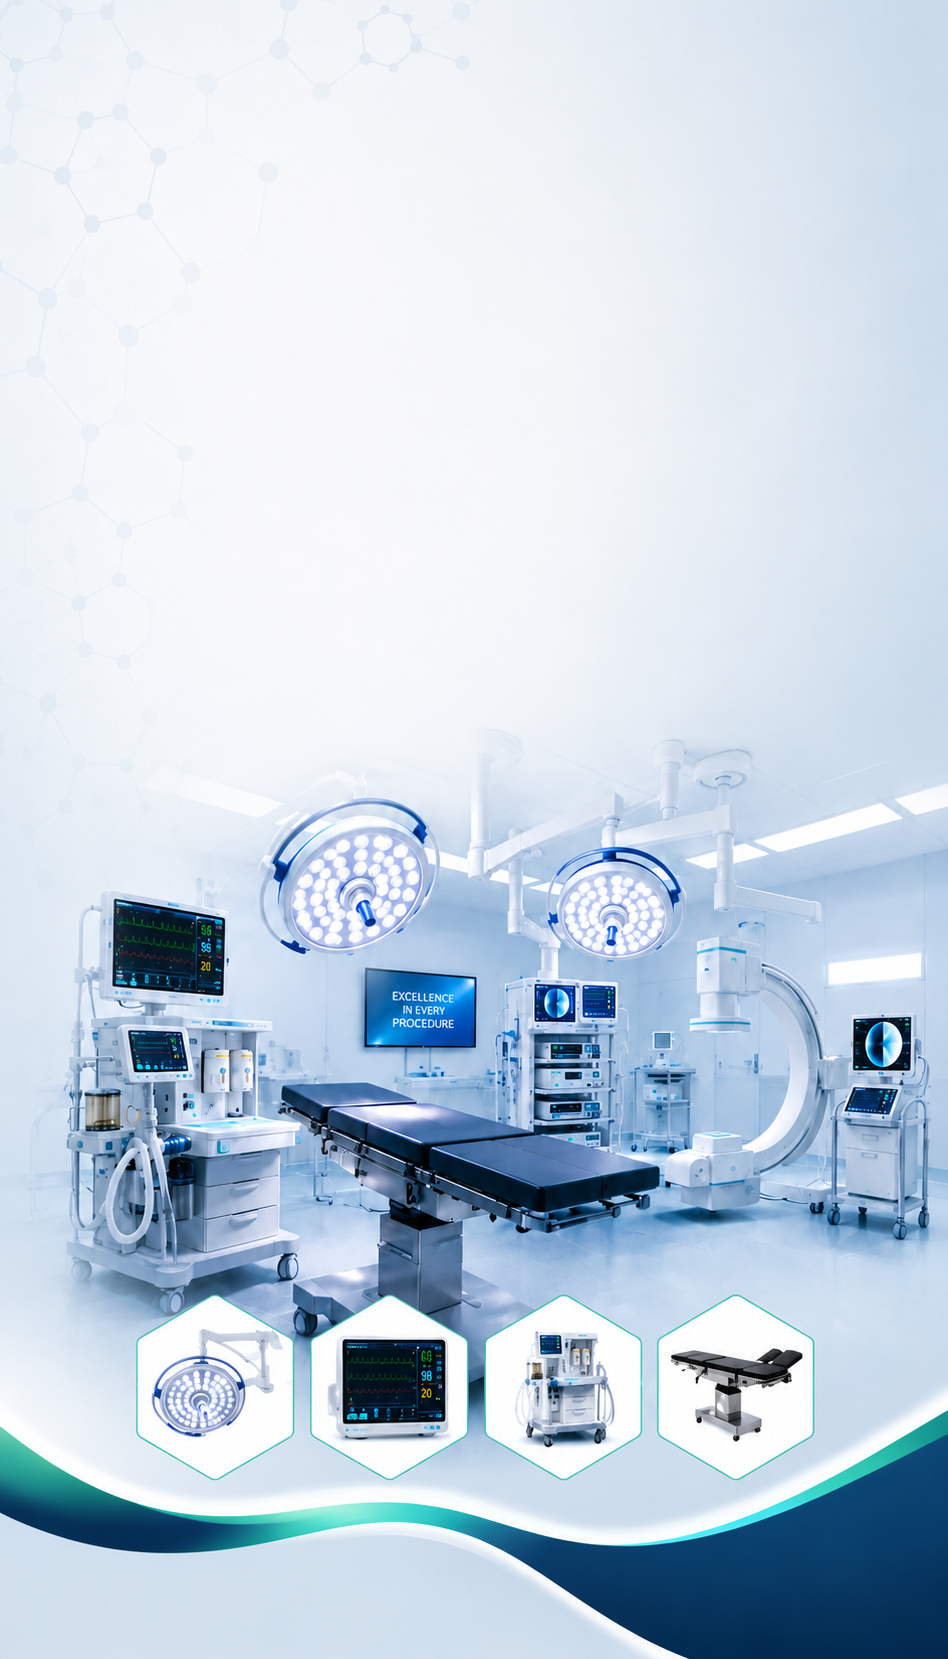
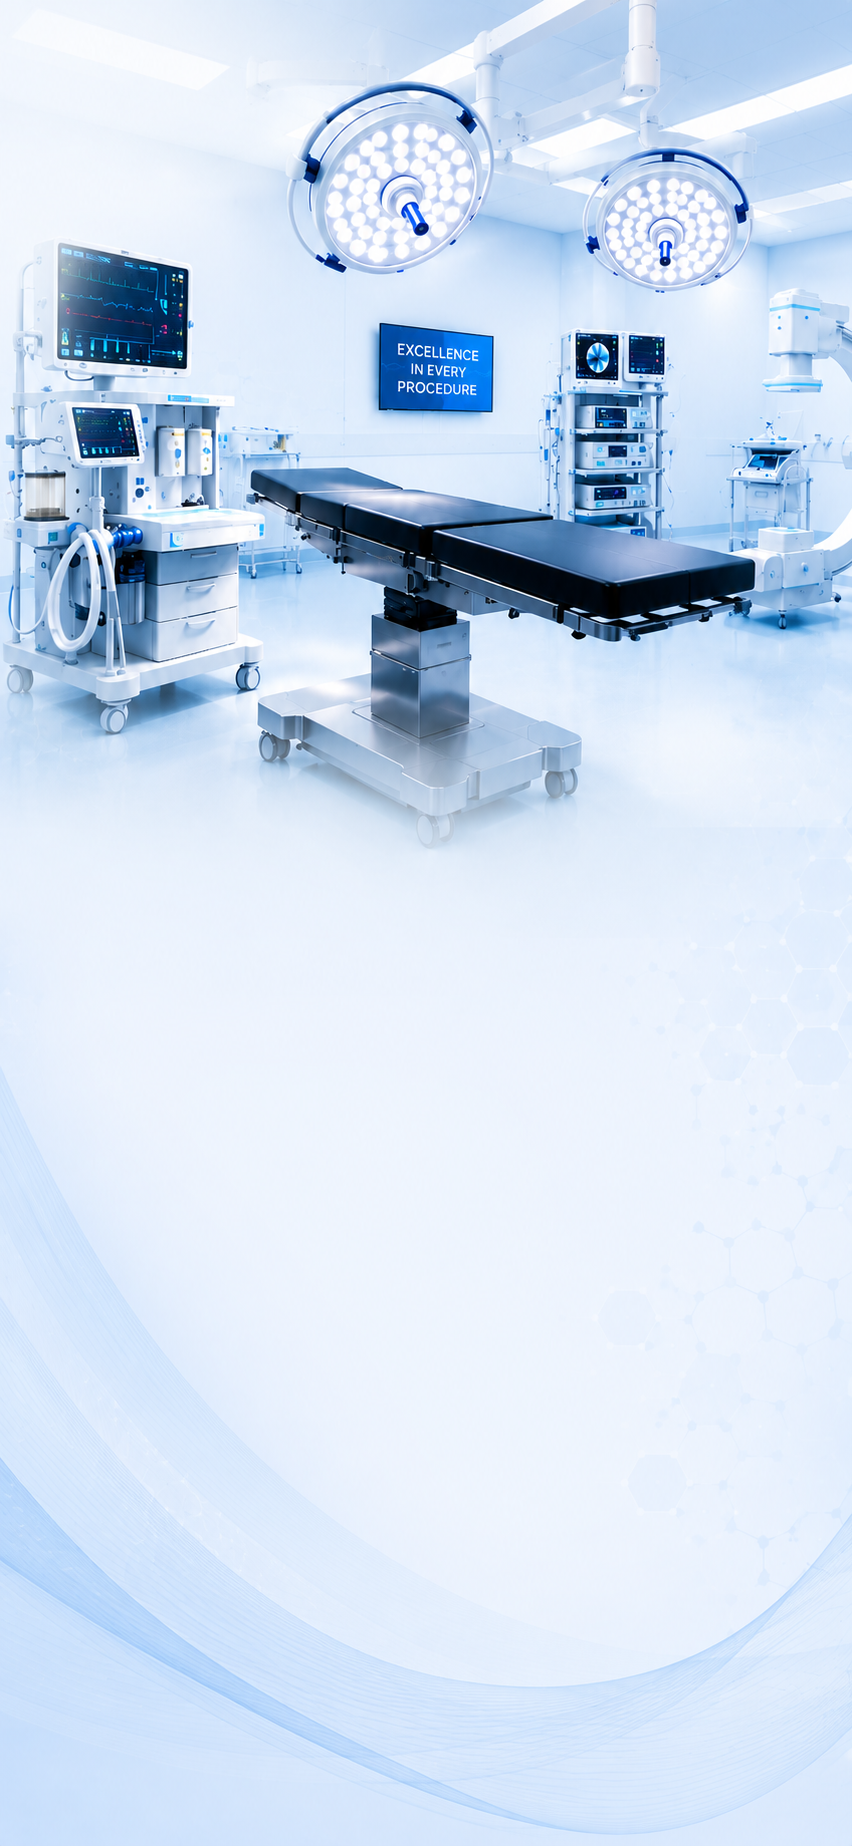
BG for Mobile view

diff --git a/src/components/HomeView.tsx b/src/components/HomeView.tsx
@@ -358,7 +358,7 @@ export default function HomeView({ onOpenProductModal, showPreloader = false }: 
   return (
     <div className="bg-white min-h-screen font-sans">
       {/* 1. HERO SECTION */}
-      <section className="relative min-h-[480px] lg:min-h-[580px] xl:min-h-[700px] flex items-center bg-slate-50 overflow-hidden pt-6 pb-5 lg:pt-10 lg:pb-8 xl:pt-[80px] xl:pb-[60px]">
+      <section className="relative min-h-[480px] lg:min-h-[580px] xl:min-h-[700px] flex items-center bg-slate-50 overflow-hidden pt-[280px] pb-8 sm:pt-[340px] md:pt-10 md:pb-8 lg:pt-10 lg:pb-8 xl:pt-[80px] xl:pb-[60px]">
         {/* Background with zoom and fade in effect */}
         <motion.div
           initial={{ opacity: 0, scale: 1 }}
@@ -367,18 +367,20 @@ export default function HomeView({ onOpenProductModal, showPreloader = false }: 
           className="absolute inset-0"
         >
           <picture>
-            {/* Desktop & Tablet: screens larger than mobile (min-width: 640px) */}
-            <source media="(min-width: 640px)" srcSet={slides[0]?.image || "/hero-bg.png"} />
-            {/* Standard Mobile: screens between 321px and 639px */}
-            <source media="(min-width: 321px)" srcSet="/Home-bg-mobile.webp" />
-            {/* Very Small Mobile: screens 320px and below */}
+            {/* Desktop & Tablet: screens larger than mobile (min-width: 768px) */}
+            <source media="(min-width: 768px)" srcSet={slides[0]?.image || "/hero-bg.png"} />
+            {/* Standard Mobile: screens 376px to 767px */}
+            <source media="(min-width: 376px)" srcSet="/hero-bg-mobile.webp" />
+            {/* Very Small Mobile: screens 320px to 375px */}
             <img
-              src="/Home-bg-mobile-320px.webp"
+              src="/hero-bg-mobile-320px.webp"
               alt="Vel Bio Med Hero Background"
-              className="w-full h-full object-cover object-center pointer-events-none"
+              className="mobile-hero-bg-img w-full h-full object-cover pointer-events-none"
               loading="eager"
             />
           </picture>
+          {/* Light readability white gradient overlay */}
+          <div className="absolute inset-0 bg-gradient-to-b from-transparent via-white/15 to-white/20 pointer-events-none z-[5]" />
         </motion.div>
 
         {/* Background Glows */}
@@ -394,7 +396,7 @@ export default function HomeView({ onOpenProductModal, showPreloader = false }: 
                 initial="hidden"
                 animate={showPreloader ? "hidden" : "visible"}
                 variants={heroContainerVariants}
-                className="flex flex-col items-center lg:items-start text-center lg:text-left text-slate-900"
+                className="flex flex-col items-center lg:items-start text-center lg:text-left text-slate-900 gap-y-5 lg:gap-y-0"
               >
                 {/* Badge */}
                 <motion.div variants={heroItemVariants} className="w-full text-center lg:text-left">
@@ -406,7 +408,7 @@ export default function HomeView({ onOpenProductModal, showPreloader = false }: 
                 {/* Heading */}
                 <motion.h1
                   variants={heroItemVariants}
-                  className="text-2xl sm:text-3xl md:text-[38px] lg:text-[36px] xl:text-[44px] font-black tracking-tight leading-[1.15] text-slate-900 max-w-[680px] w-full text-center lg:text-left mt-4 sm:mt-5 xl:mt-6"
+                  className="text-2xl sm:text-3xl md:text-[38px] lg:text-[36px] xl:text-[44px] font-black tracking-tight leading-[1.15] text-slate-900 max-w-[680px] w-full text-center lg:text-left mt-0 lg:mt-5 xl:mt-6"
                 >
                   <span className="whitespace-nowrap">
                     Transforming{" "}
@@ -425,7 +427,7 @@ export default function HomeView({ onOpenProductModal, showPreloader = false }: 
                 {/* Description */}
                 <motion.p
                   variants={heroItemVariants}
-                  className="text-[11px] sm:text-xs md:text-sm text-slate-650 leading-relaxed font-semibold max-w-[520px] w-full text-center lg:text-left mt-4 sm:mt-6 xl:mt-7"
+                  className="text-[11px] sm:text-xs md:text-sm text-slate-650 leading-relaxed font-semibold max-w-[520px] w-full text-center lg:text-left mt-0 lg:mt-6 xl:mt-7"
                 >
                   Vel Bio Med delivers high-caliber diagnostics and life-support machinery from world-renowned healthcare manufacturers to premium hospitals.
                 </motion.p>
@@ -433,7 +435,7 @@ export default function HomeView({ onOpenProductModal, showPreloader = false }: 
                 {/* CTA Buttons */}
                 <motion.div
                   variants={heroItemVariants}
-                  className="flex flex-wrap justify-center lg:justify-start gap-[20px] w-full mt-5 sm:mt-8 xl:mt-9"
+                  className="flex flex-wrap justify-center lg:justify-start gap-[20px] w-full mt-0 lg:mt-8 xl:mt-9"
                 >
                   <button
                     onClick={() => setCurrentTab("products")}
@@ -452,7 +454,7 @@ export default function HomeView({ onOpenProductModal, showPreloader = false }: 
                 {/* Statistics Cards */}
                 <motion.div
                   variants={heroItemVariants}
-                  className="grid grid-cols-4 gap-2.5 w-full lg:mx-0 mx-auto mt-6 sm:mt-8 xl:mt-10"
+                  className="grid grid-cols-4 gap-2.5 w-full lg:mx-0 mx-auto mt-0 lg:mt-8 xl:mt-10"
                 >
                   {[
                     { target: 16, suffix: "+", label: "Years Exp.", icon: Award, color: "text-blue-600", iconBg: "bg-blue-50", border: "border-blue-100/70", glow: "from-blue-500/5" },
@@ -467,7 +469,7 @@ export default function HomeView({ onOpenProductModal, showPreloader = false }: 
                         className={`flex flex-col items-center justify-center text-center gap-1.5 py-3.5 px-2 rounded-xl border ${m.border} bg-gradient-to-b ${m.glow} to-white/70 backdrop-blur-sm shadow-[0_1px_8px_rgba(0,0,0,0.05)] hover:shadow-[0_3px_14px_rgba(0,0,0,0.09)] hover:scale-[1.02] transition-all duration-200`}
                       >
                         <div className={`w-9 h-9 flex items-center justify-center rounded-xl ${m.iconBg} border border-white/90 shadow-sm`}>
-                          <IconComponent className={`w-4 h-4 ${m.color}`} strokeWidth={2} />
+                           <IconComponent className={`w-4 h-4 ${m.color}`} strokeWidth={2} />
                         </div>
                         <p className="text-lg font-black text-slate-800 tracking-tight leading-none">
                           <AnimatedCounter target={m.target} suffix={m.suffix} duration={2000} startSignal={!showPreloader} />

diff --git a/src/index.css b/src/index.css
@@ -417,3 +417,60 @@
   transform: translateX(-50%);
   transition: width 0.35s cubic-bezier(0.4, 0, 0.2, 1);
 }
+
+/* Mobile Hero Background Responsive Positioning (< 768px) */
+@media (max-width: 767.98px) {
+  .mobile-hero-bg-img {
+    object-fit: cover !important;
+    background-size: cover !important;
+    background-repeat: no-repeat !important;
+    /* Default for mobile is center top */
+    object-position: center top !important; 
+    background-position: center top !important;
+  }
+  
+  /* 320px devices (Small Mobile: 320px - 359px) */
+  @media (min-width: 320px) and (max-width: 359.98px) {
+    .mobile-hero-bg-img {
+      /* Move image slightly upward, keep surgical lights visible and operating table centered. Avoid excessive empty space. */
+      object-position: center 2% !important;
+      background-position: center 2% !important;
+    }
+  }
+
+  /* 360px devices */
+  @media (min-width: 360px) and (max-width: 374.98px) {
+    .mobile-hero-bg-img {
+      /* Center operating table, keep equipment balanced, maintain proper spacing above content */
+      object-position: center 10% !important;
+      background-position: center 10% !important;
+    }
+  }
+
+  /* 375px devices */
+  @media (min-width: 375px) and (max-width: 389.98px) {
+    .mobile-hero-bg-img {
+      /* Keep hero image naturally centered, ensure medical equipment remains visible */
+      object-position: center 18% !important;
+      background-position: center 18% !important;
+    }
+  }
+
+  /* 390px–430px devices */
+  @media (min-width: 390px) and (max-width: 479.98px) {
+    .mobile-hero-bg-img {
+      /* Slightly increase visible background area, prevent unnecessary cropping */
+      object-position: center 25% !important;
+      background-position: center 25% !important;
+    }
+  }
+
+  /* 480px+ devices */
+  @media (min-width: 480px) {
+    .mobile-hero-bg-img {
+      /* Display almost complete background image, keep composition balanced */
+      object-position: center 30% !important;
+      background-position: center 30% !important;
+    }
+  }
+}

diff --git a/scratch/compress_hero_mobile.js b/scratch/compress_hero_mobile.js
@@ -1,0 +1,36 @@
+import sharp from 'sharp';
+import fs from 'fs';
+import path from 'path';
+
+const publicDir = 'public';
+
+async function compressImage() {
+  const inputPath = path.join(publicDir, 'home-bg-mobile.png');
+  const outputPath = path.join(publicDir, 'hero-bg-mobile.webp');
+  const outputPathSmall = path.join(publicDir, 'hero-bg-mobile-320px.webp');
+
+  console.log(`Compressing home-bg-mobile.png to hero-bg-mobile.webp and hero-bg-mobile-320px.webp...`);
+
+  // Standard Mobile
+  await sharp(inputPath)
+    .resize({ width: 640 })
+    .webp({ quality: 80 })
+    .toFile(outputPath);
+
+  // Small Mobile
+  await sharp(inputPath)
+    .resize({ width: 320 })
+    .webp({ quality: 80 })
+    .toFile(outputPathSmall);
+
+  const originalSize = fs.statSync(inputPath).size;
+  const compressedSize = fs.statSync(outputPath).size;
+  const compressedSmallSize = fs.statSync(outputPathSmall).size;
+
+  console.log(`Finished:`);
+  console.log(`- Original Size: ${(originalSize / 1024 / 1024).toFixed(2)} MB`);
+  console.log(`- Compressed Size (640px): ${(compressedSize / 1024).toFixed(2)} KB`);
+  console.log(`- Compressed Small Size (320px): ${(compressedSmallSize / 1024).toFixed(2)} KB`);
+}
+
+compressImage().catch(console.error);
